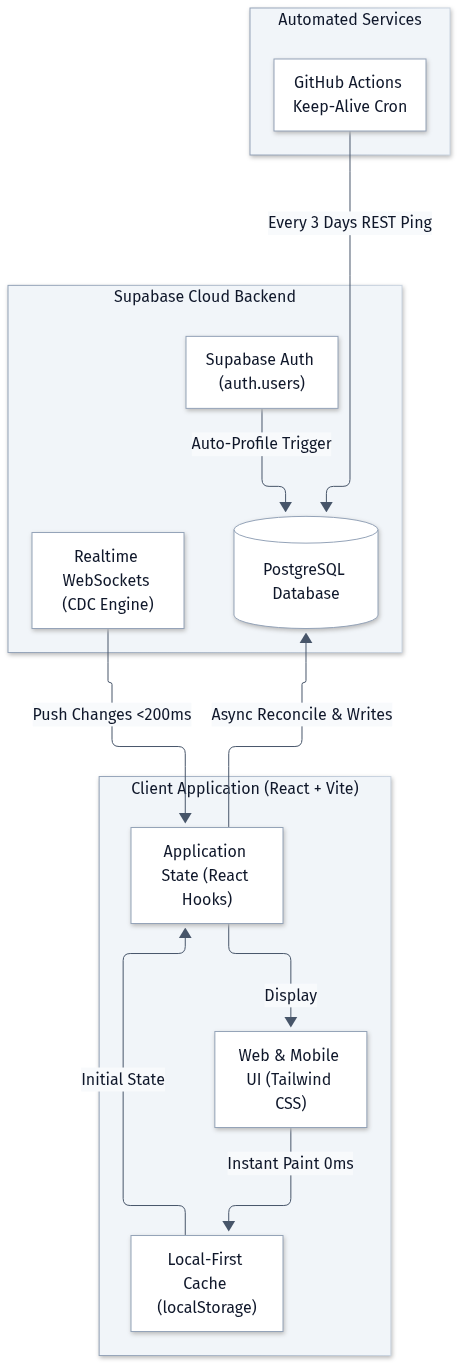
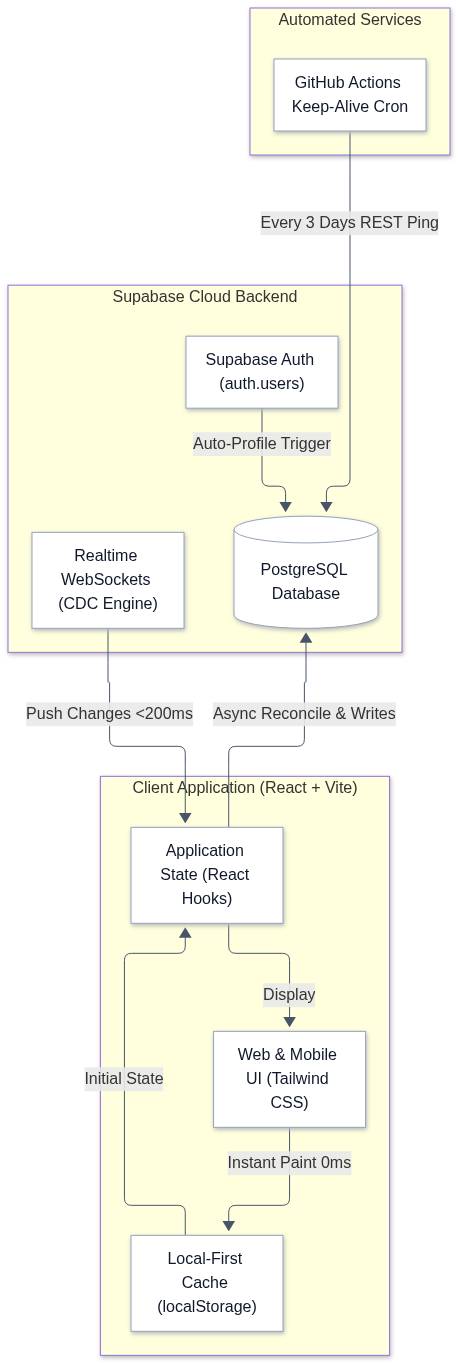
docs: export flowcharts as full images with opaque solid white background

diff --git a/docs/APP_FLOWCHART.md b/docs/APP_FLOWCHART.md
@@ -1,6 +1,87 @@
 # KM100 Inventory Management System: Architecture & Workflow Diagrams (Light Mode)
 
-This document provides light-mode architectural blueprints, role-based access control, and operational lifecycles for the **KM100 Skills and Training Center, Inc.** Property Custody & Inventory Management System. High-resolution standalone PNG renders are located in [`docs/flowcharts/`](./flowcharts/).
+This document provides light-mode architectural blueprints, role-based access control, and operational lifecycles for the **KM100 Skills and Training Center, Inc.** Property Custody & Inventory Management System. All diagrams are rendered as high-resolution PNG images with an **opaque pure white background** in [`docs/flowcharts/`](./flowcharts/).
+
+---
+
+## 0. Master System Flowchart (End-to-End Operational Overview)
+
+![Master System Flowchart](./flowcharts/00-master-system-flowchart.png)
+
+> **Export**: [Download / View PNG (00-master-system-flowchart.png)](./flowcharts/00-master-system-flowchart.png)
+
+<details>
+<summary>View Mermaid Source Definition</summary>
+
+```mermaid
+flowchart TD
+    %% Section 1: Authentication & Authorization
+    subgraph AuthLayer["1. Authentication & Role Authorization"]
+        StartApp(["User Launches App"]) --> Splash["3D Logo Splash & Cache Pre-load"]
+        Splash --> AuthState{"Active Session?"}
+        AuthState -->|No| LoginModal["Sign In / Registration View"]
+        LoginModal --> PasskeyCheck{"Institutional Passkey Validation"}
+        PasskeyCheck -->|Admin Passkey: KM100-ADMIN-2026 / 2025| CustodianRole["Role: Property Custodian (Full Control)"]
+        PasskeyCheck -->|Staff Passkey: KM100-STAFF-2026 / 2025| InstructorRole["Role: Training Instructor (Audits & Stock)"]
+        PasskeyCheck -->|Invalid| RejectAuth["Access Denied Banner"]
+        RejectAuth --> LoginModal
+    end
+
+    %% Section 2: Local-First Core Architecture
+    subgraph ClientEngine["2. Local-First Client Engine (React + Vite)"]
+        CustodianRole --> BootSession["Initialize User Session"]
+        InstructorRole --> BootSession
+        AuthState -->|Yes| BootSession
+        BootSession --> LocalStore["Local-First Cache (localStorage - 0ms Paint)"]
+        LocalStore --> ReactiveState["React Hooks State Engine"]
+        ReactiveState --> UIRender["Tailwind CSS High-Density UI"]
+    end
+
+    %% Section 3: Inventory Lifecycle Operations
+    subgraph OpsLayer["3. Facilities & Inventory Management"]
+        UIRender --> FacilityNav["Facility Scope Navigation (All Rooms or Specific Room)"]
+        FacilityNav --> KPIMetrics["Live KPI Telemetry (Total Items, Quantities, Defective, Empty)"]
+        KPIMetrics --> SearchFilter["Live Search-as-You-Type & Attribute Filters"]
+        SearchFilter --> TableGrid["High-Density Equipment Table (Sticky Headers)"]
+
+        TableGrid --> DirectOps{"Direct Manipulation Controls"}
+        DirectOps -->|Inline Steppers| StepperAdjust["Inline + / - Quantity & Physical Audits"]
+        DirectOps -->|Status Pills| StatusUpdate["Condition Tagging (Working, Fair, Needs Repair)"]
+        DirectOps -->|Enroll Equipment| EnrollModal["Add Equipment Specification"]
+        DirectOps -->|Decommission| DeleteModal["Delete Item (Admin Confirmation)"]
+    end
+
+    %% Section 4: Cloud Persistence & Automation
+    subgraph CloudLayer["4. Cloud Infrastructure & Synchronization"]
+        StepperAdjust --> CloudSync["Supabase Cloud Backend (PostgreSQL)"]
+        StatusUpdate --> CloudSync
+        EnrollModal --> CloudSync
+        DeleteModal --> CloudSync
+        CloudSync -->|Realtime CDC WebSockets| RealtimeSync["Push Updates to All Connected Devices"]
+        RealtimeSync --> ReactiveState
+        GHA["GitHub Actions Keep-Alive Cron (Every 3 Days)"] -->|REST Keepalive Ping| CloudSync
+    end
+
+    %% Section 5: Institutional Governance & Reporting
+    subgraph ReportingLayer["5. Institutional Auditing & Compliance"]
+        TableGrid --> ExportReport{"Institutional Document Generation"}
+        ExportReport -->|Formal Print| PrintSheet["Print Physical Custody Sheet (Official 3-Signatures Block)"]
+        ExportReport -->|Spreadsheet| ExcelExport["Generate Multi-Sheet Formatted Excel Workbook (.xlsx)"]
+        ExportReport -->|Schema Control| SchemaConfig["Dynamic Column Customization (Admin Only)"]
+        ExportReport -->|Security| PasskeyMgmt["Passkey Governance & Profile Management"]
+    end
+
+    classDef default fill:#ffffff,stroke:#94a3b8,stroke-width:1px,color:#0f172a;
+    classDef amber fill:#fffbeb,stroke:#b45309,stroke-width:1.5px,color:#78350f;
+    classDef emerald fill:#f0fdf4,stroke:#16a34a,stroke-width:1.5px,color:#14532d;
+    classDef rose fill:#fff1f2,stroke:#e11d48,stroke-width:1.5px,color:#9f1239;
+
+    class CustodianRole,PasskeyCheck,StepperAdjust,KPIMetrics amber;
+    class InstructorRole,CloudSync,RealtimeSync,LocalStore emerald;
+    class RejectAuth rose;
+```
+
+</details>
 
 ---
 
@@ -14,7 +95,6 @@ This document provides light-mode architectural blueprints, role-based access co
 <summary>View Mermaid Source Definition</summary>
 
 ```mermaid
-%%{init: {'theme': 'base', 'themeVariables': { 'darkMode': false, 'background': '#ffffff', 'primaryColor': '#ffffff', 'primaryBorderColor': '#94a3b8', 'primaryTextColor': '#0f172a', 'lineColor': '#475569', 'secondaryColor': '#f8fafc', 'secondaryBorderColor': '#cbd5e1', 'secondaryTextColor': '#0f172a', 'tertiaryColor': '#f1f5f9', 'tertiaryBorderColor': '#cbd5e1', 'tertiaryTextColor': '#0f172a' }}}%%
 flowchart TD
     subgraph Client["Client Application (React + Vite)"]
         UI["Web & Mobile UI (Tailwind CSS)"]
@@ -49,7 +129,6 @@ flowchart TD
     classDef highlight fill:#fffbeb,stroke:#b45309,stroke-width:2px,color:#78350f;
     class UI,LocalCache,State,AuthService,PostgresDB,RealtimeEngine,GHA default;
 ```
-</details>
 
 </details>
 
@@ -65,7 +144,6 @@ flowchart TD
 <summary>View Mermaid Source Definition</summary>
 
 ```mermaid
-%%{init: {'theme': 'base', 'themeVariables': { 'darkMode': false, 'background': '#ffffff', 'primaryColor': '#ffffff', 'primaryBorderColor': '#94a3b8', 'primaryTextColor': '#0f172a', 'lineColor': '#475569', 'secondaryColor': '#f8fafc', 'secondaryBorderColor': '#cbd5e1', 'secondaryTextColor': '#0f172a', 'tertiaryColor': '#f1f5f9', 'tertiaryBorderColor': '#cbd5e1', 'tertiaryTextColor': '#0f172a' }}}%%
 flowchart TD
     Start(["User Opens Application"]) --> Splash["Splash Screen Assembly & Boot"]
     Splash --> CheckSession{"Existing Valid Session?"}
@@ -118,7 +196,6 @@ flowchart TD
     class PasskeyError,LoginError rose;
     class CreateCloudAccount,MainApp emerald;
 ```
-</details>
 
 </details>
 
@@ -134,7 +211,6 @@ flowchart TD
 <summary>View Mermaid Source Definition</summary>
 
 ```mermaid
-%%{init: {'theme': 'base', 'themeVariables': { 'darkMode': false, 'background': '#ffffff', 'primaryColor': '#ffffff', 'primaryBorderColor': '#94a3b8', 'primaryTextColor': '#0f172a', 'lineColor': '#475569', 'secondaryColor': '#f8fafc', 'secondaryBorderColor': '#cbd5e1', 'secondaryTextColor': '#0f172a', 'tertiaryColor': '#f1f5f9', 'tertiaryBorderColor': '#cbd5e1', 'tertiaryTextColor': '#0f172a' }}}%%
 flowchart TD
     subgraph FacilityNav["1. Facility Navigation"]
         Scope{"Select Scope"}
@@ -187,7 +263,6 @@ flowchart TD
     class Steppers,KPICards amber;
     class CloudSync emerald;
 ```
-</details>
 
 </details>
 
@@ -203,7 +278,6 @@ flowchart TD
 <summary>View Mermaid Source Definition</summary>
 
 ```mermaid
-%%{init: {'theme': 'base', 'themeVariables': { 'darkMode': false, 'background': '#ffffff', 'primaryColor': '#ffffff', 'primaryBorderColor': '#94a3b8', 'primaryTextColor': '#0f172a', 'lineColor': '#475569', 'secondaryColor': '#f8fafc', 'secondaryBorderColor': '#cbd5e1', 'secondaryTextColor': '#0f172a', 'tertiaryColor': '#f1f5f9', 'tertiaryBorderColor': '#cbd5e1', 'tertiaryTextColor': '#0f172a' }}}%%
 flowchart LR
     subgraph Roles["System Roles"]
         Admin["Property Custodian (Admin)"]
@@ -245,6 +319,5 @@ flowchart LR
     class Admin admin;
     class Staff staff;
 ```
-</details>
 
 </details>
